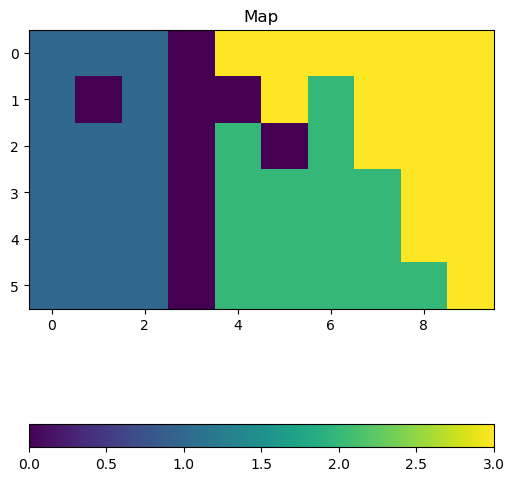
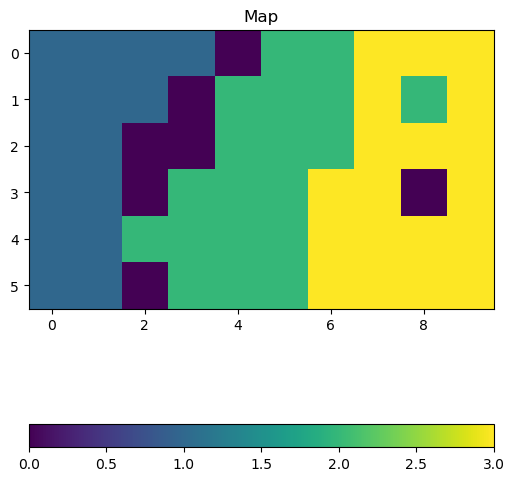
optimised version

Changed region(s): [[0.3113, 0.0624, 0.8716, 0.6549], [0.1245, 0.1559, 0.4358, 0.6549], [0.7782, 0.1559, 0.8716, 0.2807]]

diff --git a/som.c b/som.c
@@ -224,6 +224,10 @@ void init_network(net_t * config, vec_t * vecs){
         for(j = 0; j < config->vec_size; j++)
             config->map[i].w[j] = min_vec.v[j] + fmod((double)rand(), (max_vec.v[j] - min_vec.v[j]));
     }
+
+    for(i = 0; i < config->nb_row * config->nb_column; i++){
+        config->map[i].label = NULL;
+    }
 }
 
 void print_network(net_t config){
@@ -288,7 +292,7 @@ void find_best_matching_unit(vec_t vec, net_t * net){
                 min_dist = dist;
                 delete_all_bmu(net);
                 add_bmu(net, i, j);
-            }else if(dist < min_dist){
+            }else if(dist == min_dist){
                 add_bmu(net, i, j);
             }
         }
@@ -338,30 +342,20 @@ void training_network(vec_t * vecs, int * shuf_vec, net_t * net, int nb_vecs){
     }
 }
 
-void save_map(char * file_name, int * v, int row, int column, int vec_size){
-    FILE *fptr;
 
-    fptr = fopen(file_name,"w");
-
-    if(fptr == NULL) allocation_failure_handle();
-
-    int i;
-    fprintf(fptr,"%d\n%d\n%d\n", row, column, vec_size);
-    for(i = 0; i < row * column; i++){
-        fprintf(fptr,"%d,",v[i]);
-    }
-
-    fclose(fptr);
-}
-
-void print_result(vec_t * vecs, net_t * network){
-    int * v = (int*)malloc((size_t)network->nb_node * (int)sizeof(int));
+void print_and_save_result(vec_t * vecs, net_t * network){
     int i,j;
     bmu_t bmu;
-    for(i = 0; i < network->nb_node; i++){
-        v[i] = 0;
-    }
 
+    FILE *fptr;
+    fptr = fopen("map","w");
+    if(fptr == NULL){
+        printf(FILE_NOT_FOUND);
+        exit(EXIT_FAILURE);
+    }
+    fprintf(fptr,"%d\n%d\n%d\n", network->nb_row, network->nb_column, network->vec_size);
+
+    // get all unique label from dataset
     int nb_label_distinct = 0;
     char ** labels;
     int comp;
@@ -374,33 +368,46 @@ void print_result(vec_t * vecs, net_t * network){
         }
         if(!comp){
             nb_label_distinct++;
-            labels = (char**)realloc(labels, (size_t)nb_label_distinct * sizeof(char**));
+
+            if(nb_label_distinct == 1)
+                labels = (char**)malloc((size_t)nb_label_distinct * sizeof(char**));
+            else
+                labels = (char**)realloc(labels, (size_t)nb_label_distinct * sizeof(char**));
+
             labels[j] = vecs[i].label;
         }
     }
 
+    int * vec;
+    init_random_vector(&vec, network->nb_vecs);
+    shuffle_vector(vec, network->nb_vecs);
     for(i = 0; i < network->nb_vecs; i++){
-        find_best_matching_unit(vecs[i], network);
+        find_best_matching_unit(vecs[vec[i]], network);
         bmu = get_bmu(network);
-        for(j = 0; j < nb_label_distinct; j++){
-            if(!strcmp(vecs[i].label, labels[j])){
-                v[bmu.row * network->nb_column + bmu.column] = j+1;
-                break;
-            }
-        }
+        network->map[bmu.row * network->nb_column + bmu.column].label = vecs[vec[i]].label;
     }
+    free(vec);
+    
     for(i = 0; i < network->nb_node; i++){
         if(i%network->nb_column == 0)printf("\n");
-        printf("%d", v[i]);
+        for(j = 0; j < nb_label_distinct; j++)
+            if(network->map[i].label != NULL){
+                if(!strcmp(network->map[i].label, labels[j])){
+                    printf("%d", j+1);
+                    fprintf(fptr,"%d,", j+1);
+                }
+            }else{
+                printf("%d", 0);
+                fprintf(fptr,"%d,", 0);
+                break;
+            }
     }
     printf("\n\n");
-
-    save_map("map", v, network->nb_row, network->nb_column, network->vec_size);
 
     for(j = 0; j < nb_label_distinct; j++)
         printf("%d = %s\n", j+1, labels[j]);
     
-    free(v);
+    fclose(fptr);
     free(labels);
 }
 

diff --git a/som.h b/som.h
@@ -72,5 +72,5 @@ void alter_weight_by_distance(vec_t vec, net_t * net, bmu_t bmu, int iter);
 void alter_weight_nhd(vec_t vec, net_t * net, bmu_t bmu, int iter, int nhd_dist);
 int is_neighborhood(bmu_t bmu_pos, int weight_row, int weight_column, int nhd_dist);
 void training_network(vec_t * vecs, int * shuf_vec, net_t * net, int nb_vecs);
-void print_result(vec_t * vecs, net_t * network);
+void print_and_save_result(vec_t * vecs, net_t * network);
 void save_network(net_t * net, char * file_name);

diff --git a/main.c b/main.c
@@ -19,7 +19,7 @@ int main(){
 
     training_network(vecs, vec, &network, nb_vec);
 
-    print_result(vecs, &network);
+    print_and_save_result(vecs, &network);
 
     save_network(&network, "net_after");
 
@@ -27,5 +27,6 @@ int main(){
     delete_all_bmu(&network);
     free_vectors(vecs, nb_vec);
     free_network(network);
+    free(vec);
     return 1;
 }
